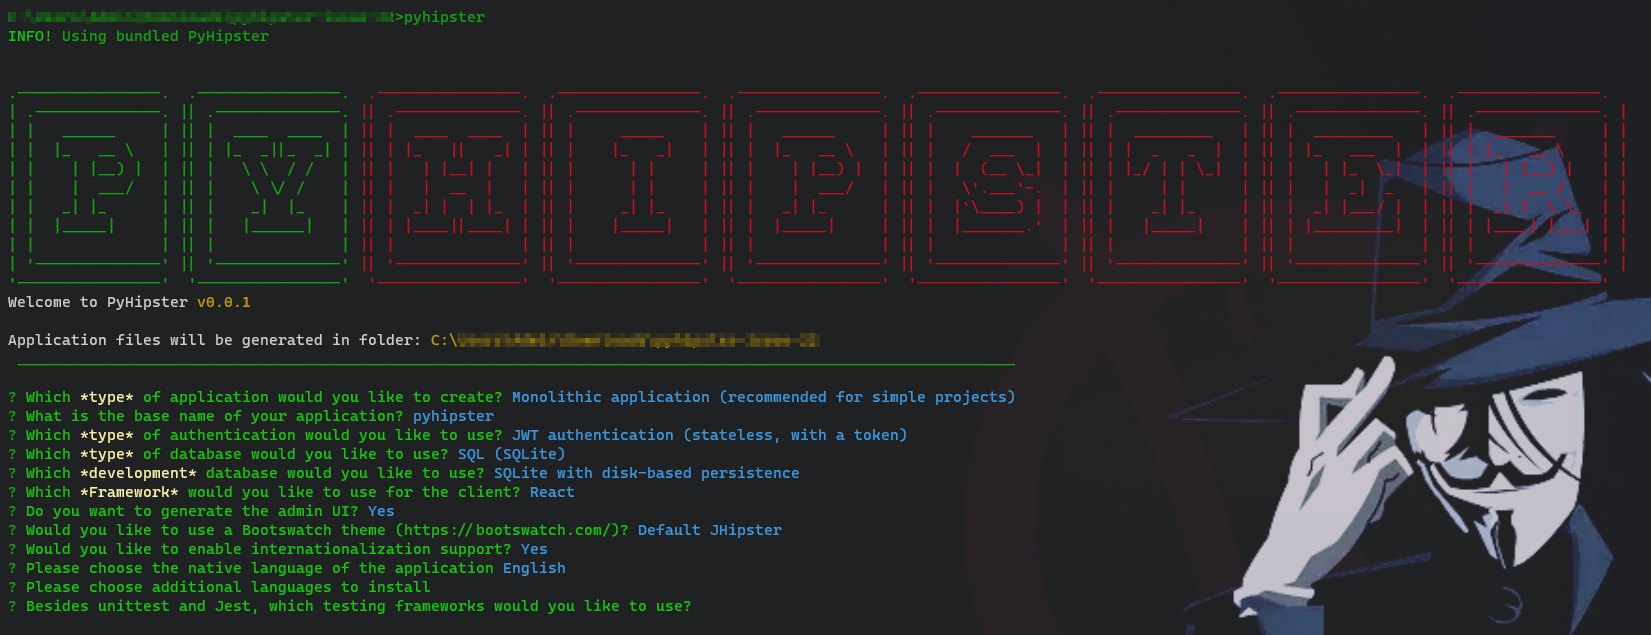
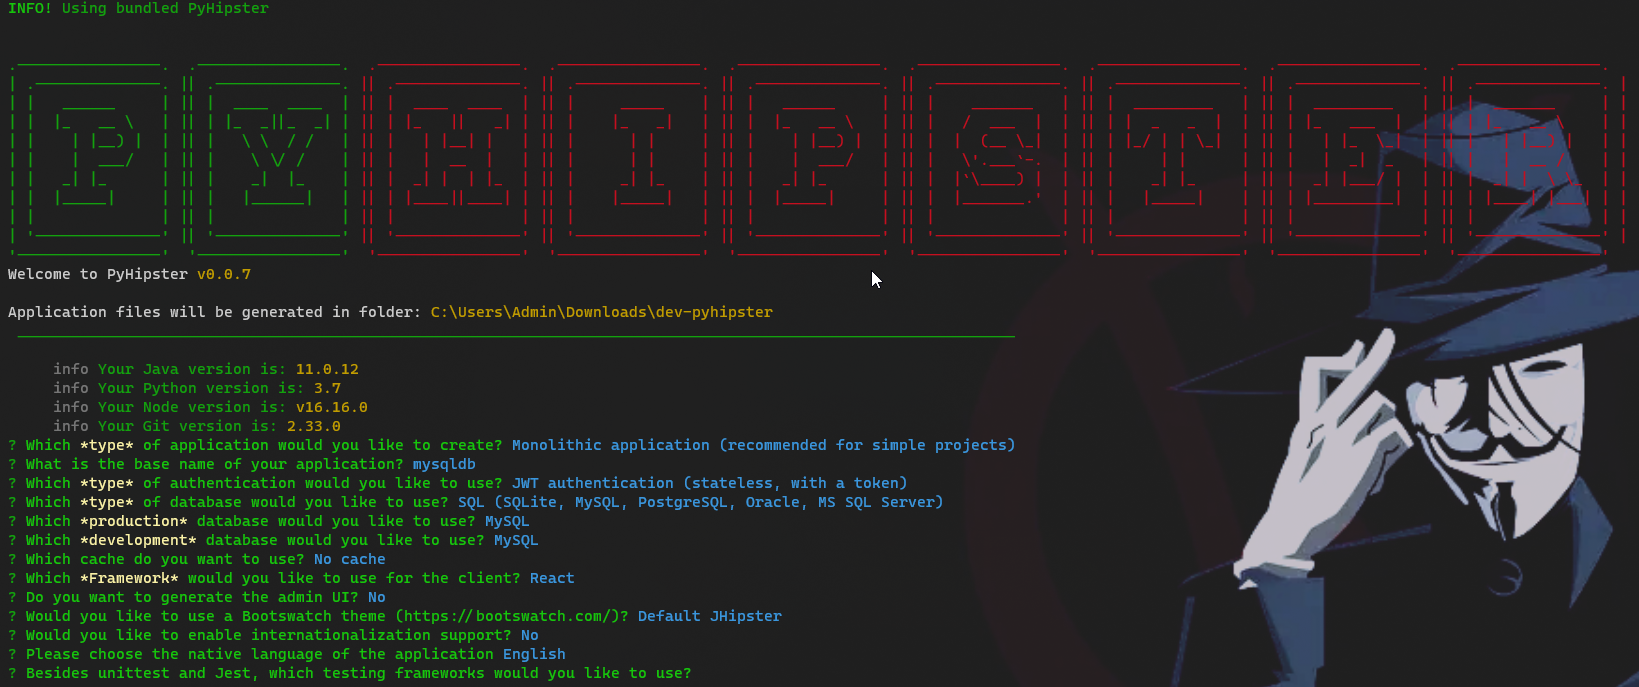
Updated documentation

diff --git a/docs/getting-started.md b/docs/getting-started.md
@@ -47,7 +47,8 @@ This will start the generator and will ask you a couple of questions to generate
 Please see below for an explanation of each of these questions.
 
 ```
-? Which *type* of application would you like to create? Monolithic application (recommended for simple projects)
+? Which *type* of application would you like to create? (Use arrow keys)
+> Monolithic application (recommended for simple projects)
 ```
 *Explanation* - Currently only monoliths are supported. So you just have this one choice.    
 ```
@@ -59,15 +60,43 @@ Please see below for an explanation of each of these questions.
 ```
 *Explanation* - Currently only JWT is supported. 
 ```
-? Which *type* of database would you like to use? SQL (SQLite)
+? Which *type* of database would you like to use? (Use arrow keys)
+> SQL (SQLite, MySQL, PostgreSQL, Oracle, MS SQL Server)
+  No database
 ```
-*Explanation* - SQLite is the only supported database for this release
+*Explanation* - Select any database type you want 
 ```
-? Which *development* database would you like to use? SQLite with disk-based persistence
+? Which *production* database would you like to use? (Use arrow keys)
+> PostgreSQL
+  MySQL
+  MariaDB
+  Oracle
+  Microsoft SQL Server
+  CockroachDB
 ```
-*Explanation* - You have two options here, wither use a desk-persisted SQLite file or an in-memory SQLite instance
+*Explanation* - Select the kind of database that you would want for the application in production environment. The selection from this stage would be available in the subsequent stages.
 ```
-? Which *Framework* would you like to use for the client? React
+? Which *development* database would you like to use? (Use arrow keys)
+> SQLite with disk-based persistence
+  SQLite with in-memory persistence
+  MySQL
+```
+*Explanation* - You have the option to use the embedded SQLite database for development or the database you selected to be used in production from the earlier stage
+```
+? Which cache do you want to use? (Use arrow keys)
+> No cache
+  SimpleCache
+  FileSystem cache
+  Memcached
+  Redis
+```
+*Explanation* - 
+```
+? Which *Framework* would you like to use for the client? (Use arrow keys)
+> Angular
+  React
+  Vue
+  No client
 ```
 *Explanation* - You are given a choice to select either Angular, React, or Vue for your frontend
 ```
@@ -78,22 +107,6 @@ Please see below for an explanation of each of these questions.
 ? Would you like to use a Bootswatch theme (https://bootswatch.com/)? Default JHipster
 ```
 *Explanation* - This will enable UI themes from Bootswatch. Please here to [Bootswatch](https://bootswatch.com/) for more details of available themes
-```
-? Would you like to enable internationalization support? Yes
-```
-*Explanation* - Choose this option to enable i18n
-```
-? Please choose the native language of the application. English
-```
-*Explanation* - Select the base language of the generated code.
-```
-? Please choose additional languages to install
-```
-*Explanation* select all the languages that you would like to support.
-```
-? Besides unittest and Jest, which testing frameworks would you like to use?
-```
-*Explanation* - Tests are not covered under the current release.
 
 ----   
 
@@ -135,6 +148,15 @@ Please find more information abuout JDL [here](jdl.md)
 
 ## Customizations
 
+### Database
+The application can handle its embedded SQLite database. In you you selected the database type to be anything other than SQLite, you have to provide appropriate values to the below options in the file ``src/main/python/config/BaseConfig.py``   
+```python
+# Database     
+SQLALCHEMY_DATABASE_URI = '...'    
+SQLALCHEMY_TRACK_MODIFICATIONS = False    
+PROPAGATE_EXCEPTIONS = False   
+```
+Please refer to the [SQLAlchemy documentation](https://docs.sqlalchemy.org/en/14/dialects/index.html) for further details.
 ### EMail
 To configure your own email to work with the generated application, please go to the file ``src/main/python/config/BaseConfig.py`` and edit the following lines to the appropriate values
 ```python
@@ -147,6 +169,22 @@ MAIL_USERNAME = 'my-email-id@gmail.com'
 MAIL_PASSWORD = 'my-email-password'
 ```
 **Please note**: If you use the above configuration with your Gmail password, you might need to  [allow less secure apps](https://support.google.com/accounts/answer/6010255?hl=en). The configuration is simpler but less secure. Also by allowing less secure apps you won’t have the ability to use two factor authentication with Gmail. Therefore we highly recommend you use an app password instead of the Gmail password. Please refer to the Gmail configuration document at [Sign in with App Passwords](https://support.google.com/accounts/answer/185833) for more information on how to set this up.
+### Cache
+To configure your cache to work with the generated application, please go to the file ``src/main/python/config/BaseConfig.py`` and supply values for the selected caching mechanism. For example, for Redis cache, you will have the following options to be customized.
+
+```python
+# Cache Configurations
+CACHE_TYPE = 'RedisCache'
+CACHE_DEFAULT_TIMEOUT = 60
+CACHE_KEY_PREFIX = ''
+CACHE_REDIS_HOST = ''
+CACHE_REDIS_PORT = 6379
+CACHE_REDIS_PASSWORD = ''
+CACHE_REDIS_DB = ''
+CACHE_REDIS_URL = ''
+```
+
+
 
 
 ## Errors

diff --git a/README.md b/README.md
@@ -13,7 +13,8 @@ The current version of the tool is available as an alpha release and not suitabl
 - Angular/React/Vue frontend
 - JWT Support
 - SQL Databse Support
-- CRUD operations using user defined data model
+- User defined data model
+- Caching
 - Multilingual
 - Email integration
 - User Management
@@ -36,16 +37,17 @@ With the great development workflow:
 - Micro web-development framework [Flask 2.2](https://flask.palletsprojects.com/en/2.2.x/)   
 - REST API support using [flask-restx](https://flask-restx.readthedocs.io/en/latest/)
 - Database integration using [Flask-SQLAlchemy 3](https://flask-sqlalchemy.palletsprojects.com/en/3.0.x/)    
+- Server side caching using [Flask-Caching](https://flask-caching.readthedocs.io/en/latest/)
 - (De-)Serialization support through [Marshmallow](https://marshmallow.readthedocs.io/en/stable/index.html), [Flask-Marshmallow](https://flask-marshmallow.readthedocs.io/en/latest/), and  [marshmallow-sqlalchemy](https://marshmallow-sqlalchemy.readthedocs.io/en/latest/index.html)    
 - JWT token access [Flask-JWT-Extended](https://flask-jwt-extended.readthedocs.io/en/stable/)    
 - Email support using [Flask-Mail](https://pythonhosted.org/Flask-Mail/) 
 
 ## Limitations
 For the current version the tool has certain limitations 
-- Only SQLite database support
 - No Test coverage for the Python code
 - Only monolith support
 - No support for Docker
+- No binary object support
 
 For more information, please continue your journey with the [getting started guide](docs/getting-started.md)
 
